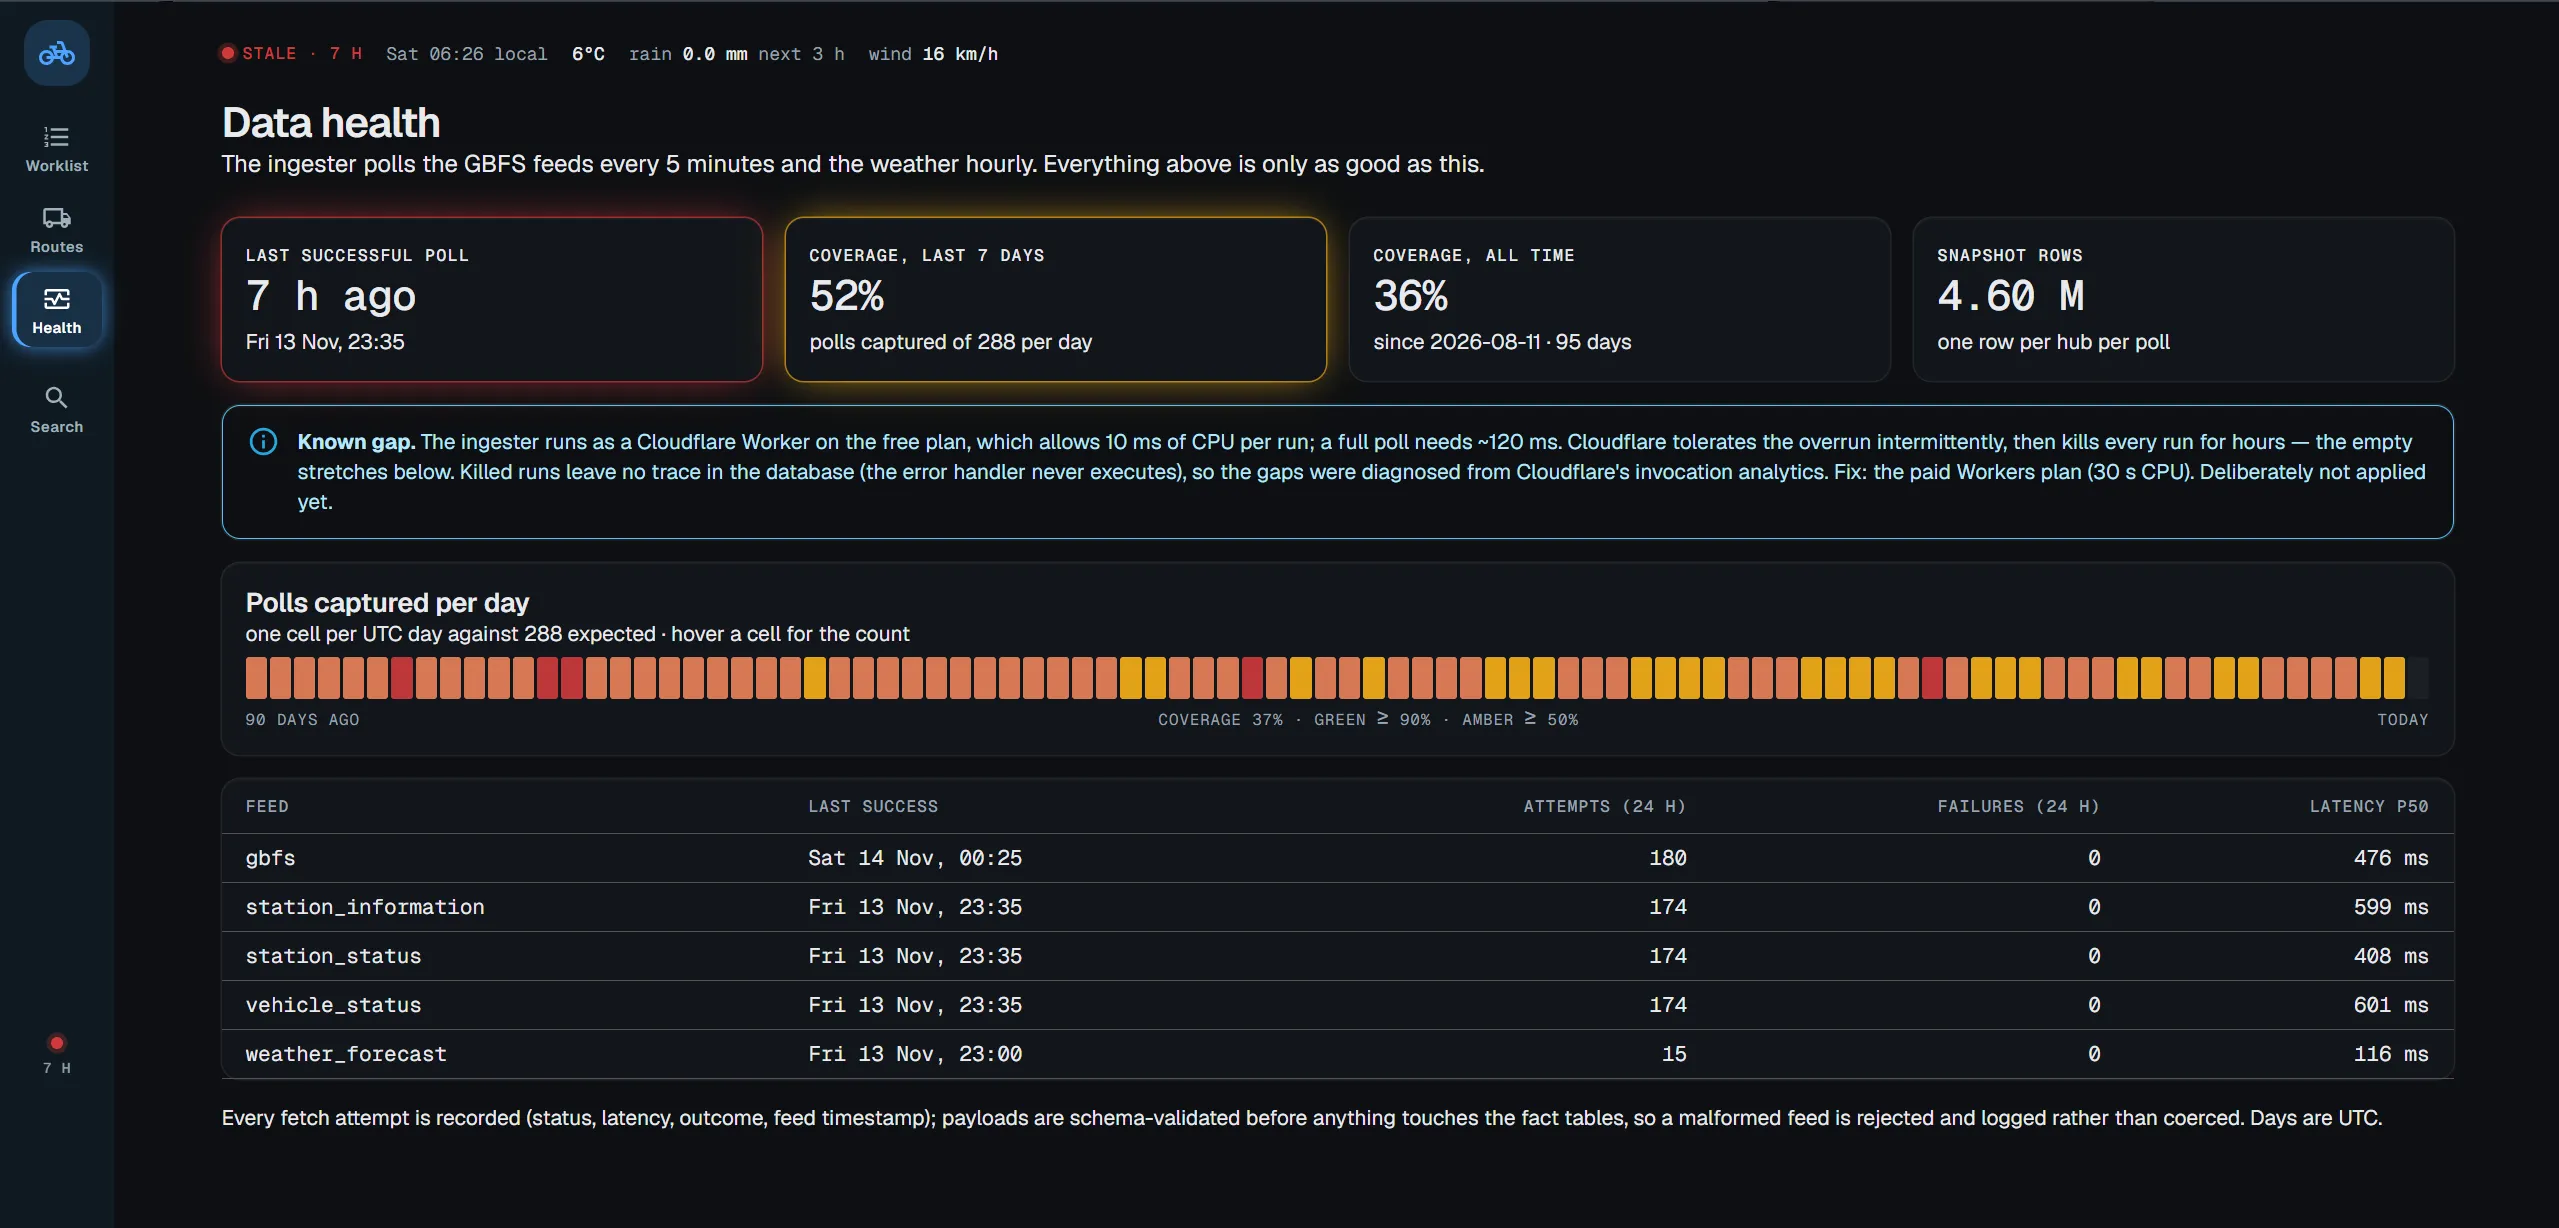
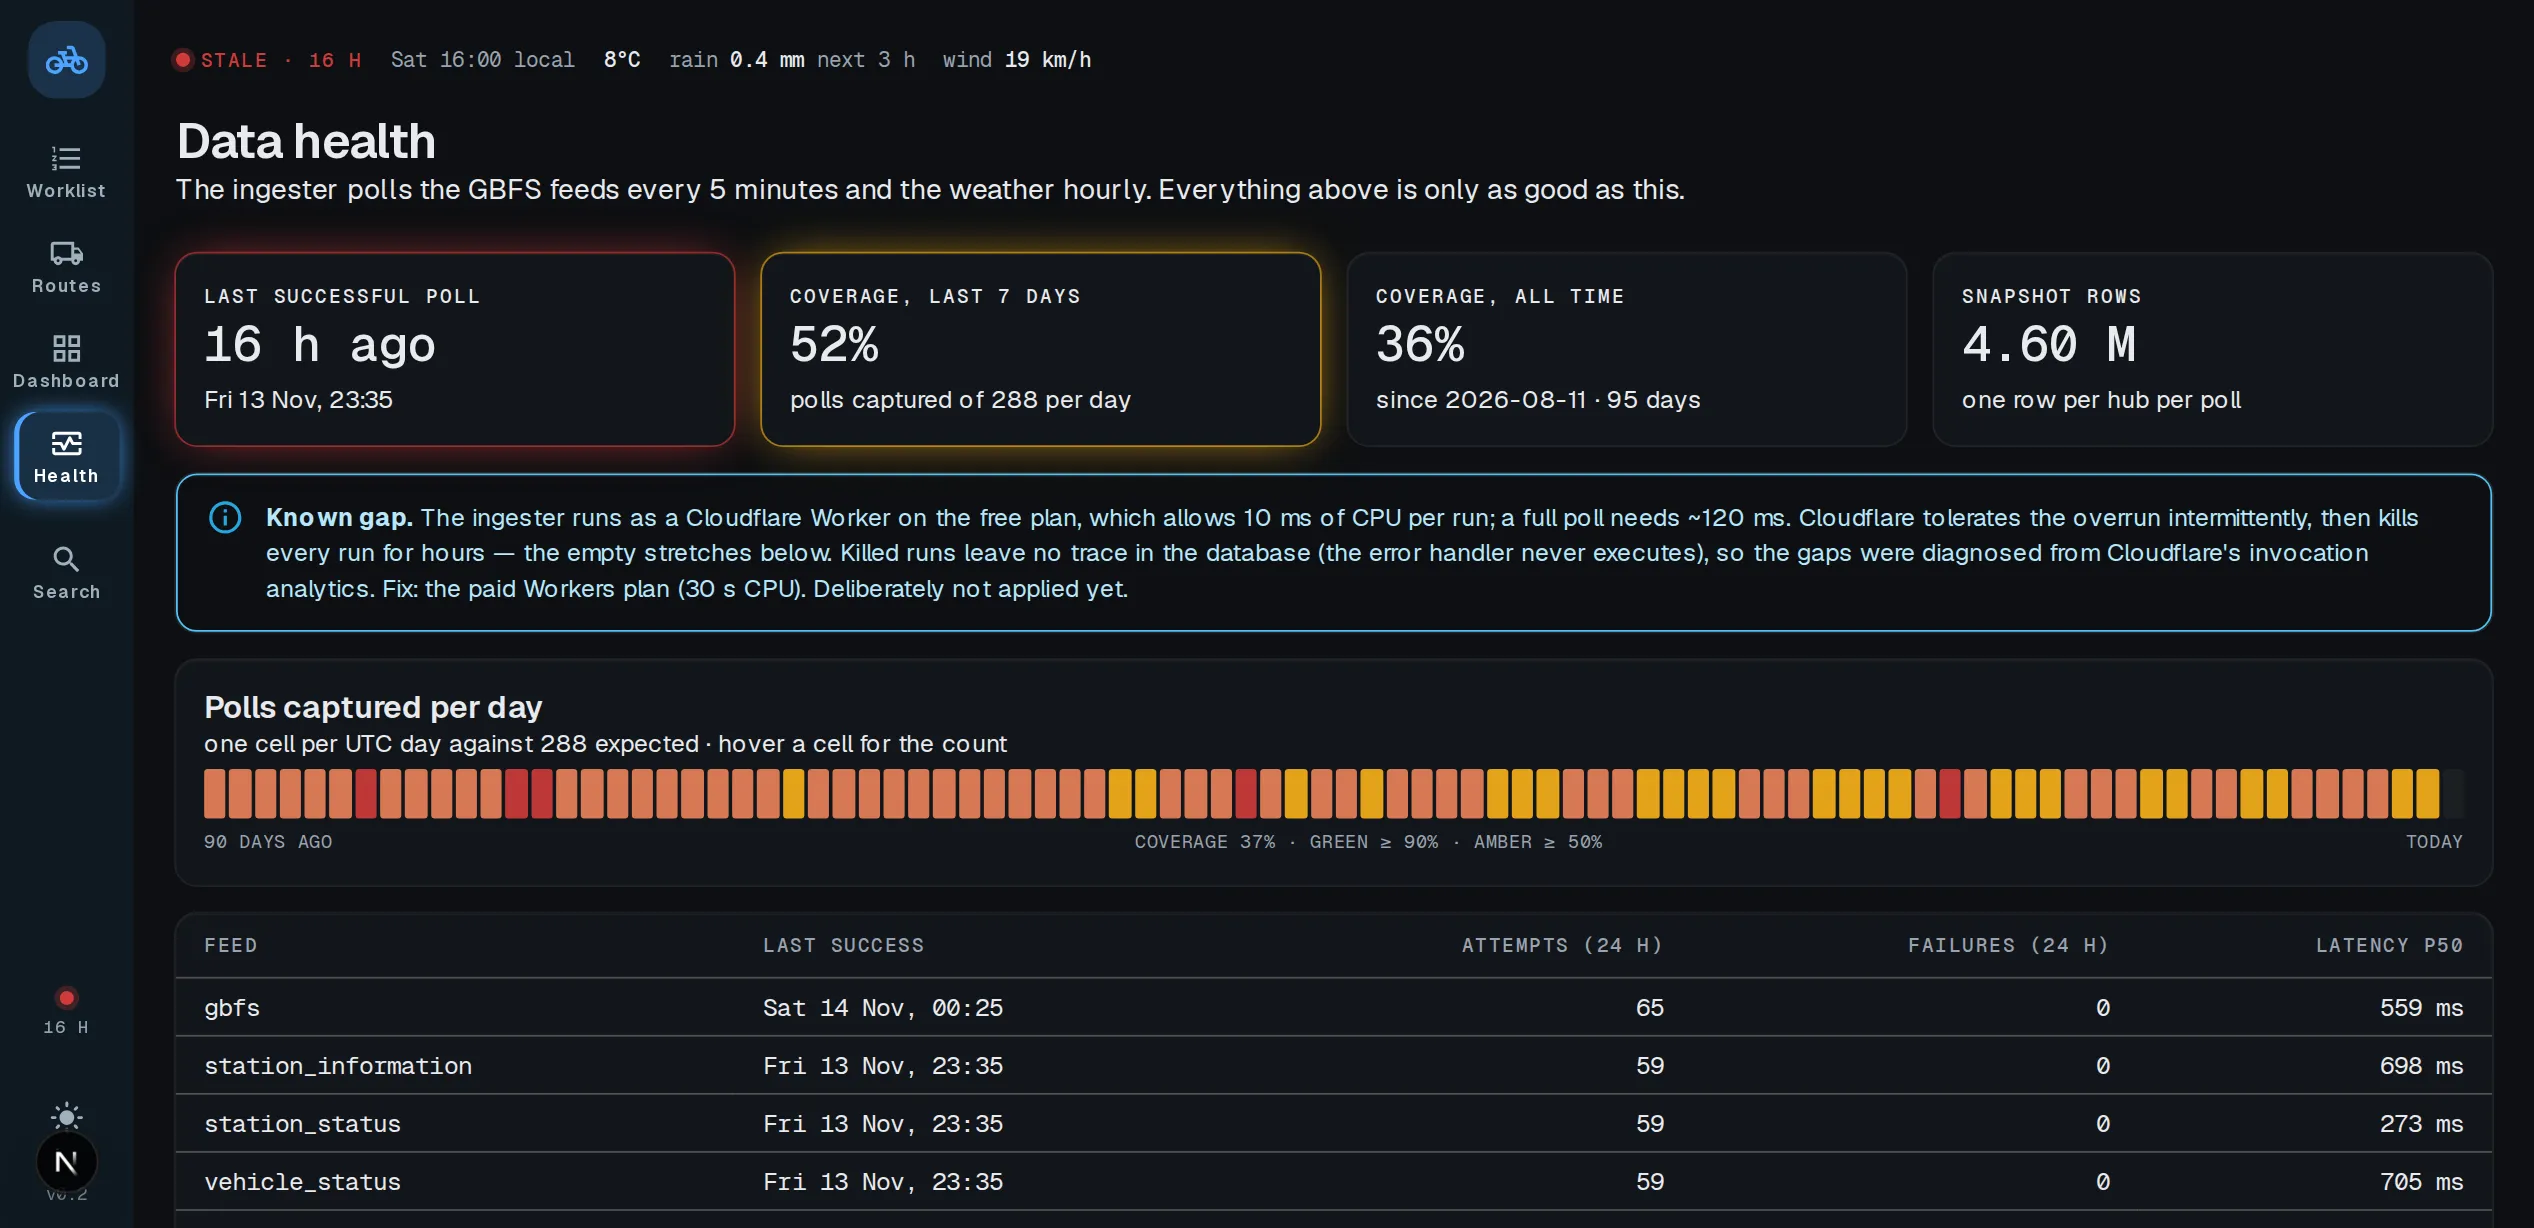
adjust bike case study

diff --git a/content/projects.ts b/content/projects.ts
@@ -36,7 +36,7 @@ export const projects: Project[] = [
     tagline:
       "Which hubs run empty in the next three hours, and the van route that prevents it — ranked by rentals lost, not model accuracy.",
     summary:
-      "A prototype of a consulting-grade operations tool for bike-share operators, built against Donkey Republic's live Aarhus system (471 virtual hubs, roughly 700 bikes) via GBFS 3.0 and Open-Meteo weather. It predicts which hubs will run empty in the next 1–3 hours, ranks them by the rentals lost if nobody acts, and generates van routes to prevent it. The hero screen is a worklist of interventions, not a map; the forecasting and routing are clearly labelled stand-ins designed to be swapped for a trained model and a solver.",
+      "A prototype of a consulting-grade operations tool for bike-share operators, built against Donkey Republic's live Aarhus system (471 virtual hubs, roughly 700 bikes) via GBFS 3.0 and Open-Meteo weather. It predicts which hubs will run empty in the next 1–3 hours, ranks them by the rentals lost if nobody acts, generates van routes to prevent it, and lets the visitor compose their own chart widgets on a dashboard. The hero screen is a worklist of interventions, not a map; the forecasting and routing are clearly labelled stand-ins designed to be swapped for a trained model and a solver.",
     problem: [
       "A bike-share operator loses a rental every time someone walks up to an empty hub. Rebalancing teams fix that by moving bikes around in vans, usually from a map and experience. With hundreds of hubs that breaks down: in Aarhus, Donkey Republic runs roughly 700 bikes across 471 virtual hubs, and more than half of those hubs are empty at any given moment. 'Will it be empty?' is true almost everywhere; the useful question is where an empty hub will actually cost rentals in the next few hours.",
       "Rebalance is a portfolio prototype of the tool a consultant would put in front of that team. It predicts which hubs run empty in the next 1–3 hours, ranks them by rentals lost if nobody acts, and generates van routes to prevent it. The success metric is that lost-rental number, not model accuracy. It runs on real live data — the Aarhus GBFS 3.0 feed polled every five minutes since August 2026, plus Open-Meteo weather — and is honest about what is a stand-in and what is not.",
@@ -69,6 +69,10 @@ export const projects: Project[] = [
         heading: "A dispatcher's console, in paper and in the dark",
         body: "The worklist shows a runway sparkline and minutes-to-empty per hub, opens a side sheet on click and has ⌘K hub search; a feed-freshness indicator and a weather strip sit on every page. Van routes are a full-screen map linked both ways to the plan panel, with a time-axis strip per van that shows when a delivery arrives after the hub has already emptied, and planner inputs that live in the URL. Light mode is a warm 'paper' theme; dark mode is a 'console' theme where the element that matters glows. Every figure is set in monospace tabular numerals.",
       },
+      {
+        heading: "A dashboard the visitor builds, saved in the browser",
+        body: "One dialog builds a widget: pick measurements, pick hubs or the whole system, pick a chart, tune it, with the real widget rendering at every change. Six chart types enable only when the series shape fits — stock bands need bikes on a single hub, compare needs one hub measurement on several hubs — so an impossible widget cannot be saved; the rules are unit-tested. The board lives in localStorage and in a share link that encodes it as base64url JSON, so the frontend keeps its read-only database role. 'Rentals at stake' had no history to chart, so a materialised view replays the current baseline over the last 90 days per hour — what today's profile would have said, not a backtest.",
+      },
     ],
     outcomes: [
       "Three months of live data: 5-minute polls of 471 Aarhus hubs since August 2026, ~4.6M snapshot rows, feed health recorded for every fetch",
@@ -76,6 +80,7 @@ export const projects: Project[] = [
       "Van routes on a full-screen map linked both ways to the plan panel, with a per-van time axis that flags deliveries arriving after the hub has emptied",
       "Hub detail: 7-day history continuing into the +3 h projection, hour-of-week heatmaps, nearest hubs with spare bikes",
       "A data-health page with a 90-day coverage strip that shows the gaps and says why they are there",
+      "A dashboard of chart widgets the visitor composes in one dialog with a live preview and arranges on a drag-and-resize grid, saved in the browser and shareable as a link",
       "Forecasting and routing shipped as labelled stand-ins behind stable interfaces, ready for a trained model and an OR-Tools solver",
     ],
     stack: [
@@ -84,6 +89,7 @@ export const projects: Project[] = [
       "MUI 9",
       "Leaflet 1.9 (imperative)",
       "Apache ECharts 6",
+      "react-grid-layout",
       "Supabase Postgres + PostGIS",
       "Drizzle ORM",
       "Cloudflare Workers (cron)",
@@ -98,15 +104,27 @@ export const projects: Project[] = [
     images: [
       {
         src: "/images/rebalance/worklist.webp",
-        alt: "Rebalance worklist: headline tiles for rentals at stake, bikes on hubs, empty hubs and last observation, a stale-feed warning, then hubs grouped into Soon, Watch and OK bands with a runway sparkline, minutes to empty, demand, risk, lost rentals and a Deliver or Collect action per row",
+        alt: "Rebalance worklist: headline tiles for rentals at stake, bikes on hubs, empty hubs and last observation, a stale-feed warning, then hubs grouped into Act now and Soon bands with a runway sparkline, minutes to empty, demand, risk, lost rentals and a Deliver action per row",
         caption:
           "The hero screen — hubs ranked by rentals lost in the next three hours, grouped by priority band. The red STALE indicator and the warning strip are the feed-freshness check, honest about a throttled ingester.",
       },
       {
         src: "/images/rebalance/routes.webp",
-        alt: "Rebalance van routes: a plan panel with van count, capacity, depot stock and horizon inputs, result tiles for rentals saved, bikes moved, driving and unmet, and a per-van timeline with one late stop, beside a full-screen dark map of Aarhus with the numbered route and a hovered stop's tooltip",
+        alt: "Rebalance van routes: a plan panel with van count, capacity, depot stock and horizon inputs, result tiles for rentals saved, bikes moved, driving and unmet, and a per-van timeline with late stops marked in red, beside a full-screen dark map of Aarhus with two numbered van routes, a legend and a hovered stop's tooltip",
         caption:
-          "Van routes — plan panel and map linked both ways; the timeline strip marks the stop where the van arrives after the hub has emptied, and the hovered stop is highlighted in both.",
+          "Van routes — plan panel and map linked both ways; the timeline strip marks the stops where the van arrives after the hub has emptied, and the hovered stop is highlighted in both.",
+      },
+      {
+        src: "/images/rebalance/dashboard.webp",
+        alt: "Rebalance dashboard: a board period toggle from 24h to 3M, a '4 widgets · saved in this browser' label, Share link, Reset and Add widget buttons, then a grid with an Empty hubs KPI tile and sparkline, a Rentals per hour by hub bar chart and two mixed-line charts of bikes against rain for Aarhus Central Station and Harbor Bath with shaded no-data bands, and quick-add chips below",
+        caption:
+          "The dashboard — three starter widgets and one the visitor added, bikes against rain on a second hub; the shaded bands are ingester gaps, left as gaps rather than drawn across.",
+      },
+      {
+        src: "/images/rebalance/builder.webp",
+        alt: "Rebalance Add widget dialog: measurement chips grouped by hubs, fleet, weather and operations with Bikes and Rain selected, a hub search with Aarhus Central Station ticked, a series list of two lines, chart cards with Mixed line selected, and on the right a live preview of bikes against rain over seven days above an auto-generated widget name",
+        caption:
+          "Add widget — the left side reveals itself step by step, the right side is the real widget rendering at the chosen size, and the name is auto-generated until edited.",
       },
       {
         src: "/images/rebalance/health.webp",
@@ -115,7 +133,7 @@ export const projects: Project[] = [
       },
       {
         src: "/images/rebalance/search.webp",
-        alt: "Rebalance ⌘K hub search open over the data-health page: hubs listed with their bike count and priority band, and go-to shortcuts for the worklist, van routes and data health",
+        alt: "Rebalance ⌘K hub search open over the data-health page: hubs listed with their bike count and priority band, and go-to shortcuts for the worklist, van routes and dashboard",
         caption: "⌘K on any page — find a hub by name or id, with its stock and priority, or jump between screens.",
       },
     ],
